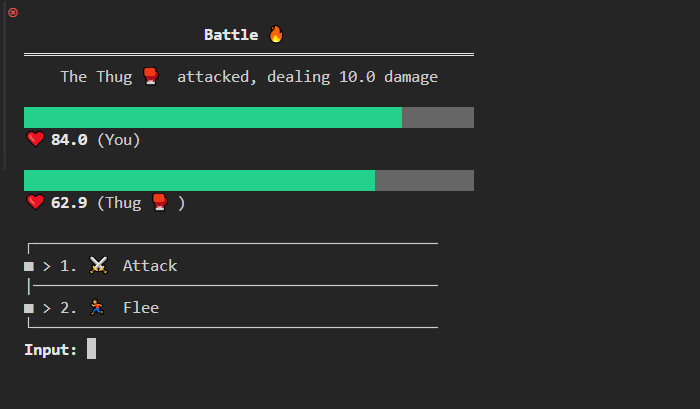
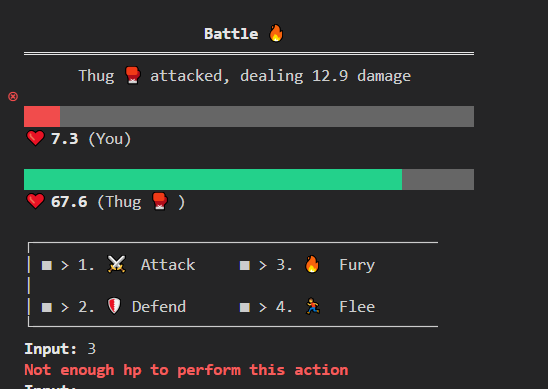
new actions
temporary modifier system.
add defend and fury action in battle.
new temporal perk.
new golem enemy.

diff --git a/internal/game/game.go b/internal/game/game.go
@@ -7,6 +7,7 @@ import (
 	"os"
 	"strconv"
 	"strings"
+	"time"
 
 	"github.com/Noblefel/term-rpg/internal/battle"
 	"github.com/Noblefel/term-rpg/internal/display"
@@ -17,12 +18,14 @@ type Game struct {
 	scanner *bufio.Scanner
 	dis     *display.Display
 	p       *entity.Player
+	bgChan  chan func()
 }
 
 func New(scanner *bufio.Scanner, dis *display.Display) *Game {
 	return &Game{
 		scanner: scanner,
 		dis:     dis,
+		bgChan:  make(chan func()),
 	}
 }
 
@@ -31,6 +34,15 @@ func (g *Game) Start() {
 		perk := g.selectPerks()
 		g.p = entity.NewPlayer(perk)
 	}
+
+	defer close(g.bgChan)
+
+	go func() {
+		for {
+			fn := <-g.bgChan
+			go fn()
+		}
+	}()
 
 	for {
 		g.menu()
@@ -86,15 +98,17 @@ func (g *Game) menu() {
 func (g *Game) selectPerks() int {
 	display.Clear()
 	g.dis.Printf(g.dis.Green, "══════════════════════════════════════════════════")
-	g.dis.Center(g.dis.Green, "Select your perk 🔥")
+	g.dis.Center(g.dis.Green, "Select your perk ✨")
 	g.dis.Printf(g.dis.Green, "══════════════════════════════════════════════════\n")
 
 	fmt.Println("┌─────────────────────────────────────────────")
-	fmt.Println("■ > 1. 💰 Greed (Gain 15% more loot)")
+	fmt.Printf("■ > 1. %s\n", entity.Perks[entity.GREED])
 	fmt.Println("|─────────────────────────────────────────────")
-	fmt.Println("■ > 2. 🛡  Resiliency (+1 Def point and 10% dmg reduction)")
+	fmt.Printf("■ > 2. %s\n", entity.Perks[entity.RESILIENCY])
 	fmt.Println("|─────────────────────────────────────────────")
-	fmt.Println("■ > 3. ⚔   Havoc (+25% Attack, but -15 HP cap)")
+	fmt.Printf("■ > 3. %s\n", entity.Perks[entity.HAVOC])
+	fmt.Println("|─────────────────────────────────────────────")
+	fmt.Printf("■ > 4. %s\n", entity.Perks[entity.TEMPORAL])
 	fmt.Println("└─────────────────────────────────────────────")
 
 	for {
@@ -103,7 +117,7 @@ func (g *Game) selectPerks() int {
 
 		t := g.scanner.Text()
 		switch t {
-		case "1", "2", "3":
+		case "1", "2", "3", "4":
 			perk, _ := strconv.Atoi(t)
 			return perk
 		}
@@ -219,9 +233,9 @@ func (g *Game) battle() {
 
 func (g *Game) playerTurn(b *battle.Battle) {
 	fmt.Println("┌─────────────────────────────────────────────")
-	fmt.Println("■ > 1. ⚔   Attack")
-	fmt.Println("|─────────────────────────────────────────────")
-	fmt.Println("■ > 2. 🏃  Flee ")
+	fmt.Println("| ■ > 1. ⚔   Attack	 ■ > 3. 🔥  Fury")
+	fmt.Println("|")
+	fmt.Println("| ■ > 2. 🛡  Defend	 ■ > 4. 🏃  Flee")
 	fmt.Println("└─────────────────────────────────────────────")
 
 	for {
@@ -241,6 +255,47 @@ func (g *Game) playerTurn(b *battle.Battle) {
 				b.Log = fmt.Sprintf("You attacked, dealing %.1f damage ⚔", att)
 			}
 		case "2":
+			if g.p.IsDefending {
+				g.dis.Printf(g.dis.Red, "Action already in effect\n")
+				continue
+			}
+
+			td := 5 * time.Second
+			if g.p.Perk == entity.TEMPORAL {
+				td += 8 * time.Second
+			}
+
+			g.bgChan <- func() {
+				g.p.IsDefending = true
+				time.Sleep(td)
+				g.p.IsDefending = false
+			}
+
+			b.Status = battle.NEXT
+			b.Log = "You defend yourself, boosting dmg reduction 🛡"
+		case "3":
+			if g.p.Hp <= 10 {
+				g.dis.Printf(g.dis.Red, "Not enough hp to perform this action\n")
+				continue
+			}
+
+			sacrifice := 1 + (g.p.Hp * 0.1) + (rand.Float32() * 4)
+			g.p.Hp -= sacrifice
+
+			td := 5 * time.Second
+			if g.p.Perk == entity.TEMPORAL {
+				td += 8 * time.Second
+			}
+
+			g.bgChan <- func() {
+				g.p.Att += 4
+				time.Sleep(td)
+				g.p.Att -= 4
+			}
+
+			b.Status = battle.NEXT
+			b.Log = fmt.Sprintf("You descent into fury 🔥 (-%.1f hp)", sacrifice)
+		case "4":
 			b.Status = battle.FLED
 			b.Log = "You decided to fight another day 🏃"
 		default:
@@ -255,15 +310,26 @@ func (g *Game) enemyTurn(b *battle.Battle) {
 	g.dis.Center(nil, "■ > Enemy's turn 🔶. Press enter to proceed")
 	g.scanner.Scan()
 
-	att := b.Enemy.Attack()
-	att = g.p.TakeDamage(att)
+	if !b.EnemyAttr.IsDefending && rand.Intn(100) < 10 {
+		g.bgChan <- func() {
+			b.EnemyAttr.IsDefending = true
+			time.Sleep(10 * time.Second)
+			b.EnemyAttr.IsDefending = false
+		}
 
-	if g.p.Hp <= 0 {
-		b.Status = battle.LOSE
-		b.Log = fmt.Sprintf("You've been slained with %.1f damage ⚔  🩸", att)
-	} else {
 		b.Status = battle.NEXT
-		b.Log = fmt.Sprintf("%s  attacked, dealing %.1f damage", b.EnemyAttr.Name, att)
+		b.Log = fmt.Sprintf("%s  bolster their defense 🛡", b.EnemyAttr.Name)
+	} else {
+		att := b.Enemy.Attack()
+		att = g.p.TakeDamage(att)
+
+		if g.p.Hp <= 0 {
+			b.Status = battle.LOSE
+			b.Log = fmt.Sprintf("You've been slained with %.1f damage ⚔  🩸", att)
+		} else {
+			b.Status = battle.NEXT
+			b.Log = fmt.Sprintf("%s attacked, dealing %.1f damage", b.EnemyAttr.Name, att)
+		}
 	}
 }
 

diff --git a/internal/entity/entity_test.go b/internal/entity/entity_test.go
@@ -36,22 +36,24 @@ func TestAttack(t *testing.T) {
 
 func TestTakeDamage(t *testing.T) {
 	tests := []struct {
-		name       string
-		def        float32
-		dmg        float32
-		dmgReduc   float32
-		expectedHp float32
+		name        string
+		def         float32
+		dmg         float32
+		dmgReduc    float32
+		expectedHp  float32
+		isDefending bool
 	}{
-		{"10 damage with 4 def", 4, 10, 0, 94},
-		{"10 damage with 100 def", 100, 10, 0, 100},
-		{"50 damage with 25 def", 25, 50, 0, 75},
-		{"8.8 damage with 1.3 def", 1.3, 8.8, 0, 92.5},
-		{"30 damage with 30% dmg reduction", 0, 30, 0.3, 79},
+		{"10 damage with 4 def", 4, 10, 0, 94, false},
+		{"10 damage with 100 def", 100, 10, 0, 100, false},
+		{"50 damage with 25 def", 25, 50, 0, 75, false},
+		{"8.8 damage with 1.3 def", 1.3, 8.8, 0, 92.5, false},
+		{"30 damage with 30% dmg reduction", 0, 30, 0.3, 79, false},
+		{"10 damage while defending", 0, 10, 0, 92, true},
 	}
 
 	for _, tt := range tests {
 		t.Run(tt.name, func(t *testing.T) {
-			b := Base{Hp: 100, Def: tt.def, DmgReduc: tt.dmgReduc}
+			b := Base{Hp: 100, Def: tt.def, DmgReduc: tt.dmgReduc, IsDefending: tt.isDefending}
 			b.TakeDamage(tt.dmg)
 
 			if b.Hp != tt.expectedHp {

diff --git a/internal/entity/entity.go b/internal/entity/entity.go
@@ -17,14 +17,16 @@ type Entity interface {
 }
 
 type Base struct {
-	Name      string
-	Hp        float32
-	Att       float32
-	Def       float32
-	HpCap     float32
-	DmgReduc  float32
-	DropRate  float32
-	isTesting bool
+	Name     string
+	Hp       float32
+	Att      float32
+	Def      float32
+	HpCap    float32
+	DmgReduc float32
+	DropRate float32
+
+	IsDefending bool
+	isTesting   bool
 }
 
 func (b *Base) Attack() float32 {
@@ -44,13 +46,15 @@ func (b *Base) Attack() float32 {
 }
 
 func (b *Base) TakeDamage(dmg float32) float32 {
-	dmg -= b.Def
+	dmg -= b.Def + (dmg * b.DmgReduc)
+
+	if b.IsDefending {
+		dmg -= dmg * 0.2
+	}
 
 	if dmg <= 0 {
 		return 0
 	}
-
-	dmg -= dmg * b.DmgReduc
 
 	b.Hp -= dmg
 	return dmg

diff --git a/internal/entity/player.go b/internal/entity/player.go
@@ -9,12 +9,14 @@ const (
 	GREED int = iota + 1
 	RESILIENCY
 	HAVOC
+	TEMPORAL
 )
 
 var Perks = map[int]string{
 	GREED:      "💰 Greed (Gain 15% more loot)",
 	RESILIENCY: "🛡  Resiliency (+1 Def point and 10% dmg reduction)",
 	HAVOC:      "⚔   Havoc (+25% Attack, but -15 HP cap)",
+	TEMPORAL:   "⏰  Temporal (+8 seconds to actions bonus modifier)",
 }
 
 type Player struct {
@@ -91,7 +93,7 @@ func (p *Player) Train(n int) string {
 		return fmt.Sprintf("Defense increased by %.1f", n)
 	case 3:
 		p.DmgReduc += 0.01
-		return "Dmg reduction increased by 1%"
+		return "Dmg reduction increased by 1%%"
 	}
 
 	return ""

diff --git a/internal/entity/enemy.go b/internal/entity/enemy.go
@@ -12,6 +12,8 @@ func SpawnRandom() Entity {
 		return newAssasin()
 	case 3:
 		return newSnakes()
+	case 4:
+		return newGolem()
 	}
 
 	return nil
@@ -69,4 +71,25 @@ func newSnakes() Entity {
 		HpCap:    30,
 		DropRate: 0,
 	}}
+}
+
+type golem struct{ Base }
+
+func newGolem() Entity {
+	return &golem{Base{
+		Name:     "Golem 🗿",
+		Hp:       151,
+		Att:      38,
+		Def:      20,
+		HpCap:    151,
+		DropRate: 3.2,
+	}}
+}
+
+func (g *golem) Attack() float32 {
+	if rand.Intn(100) < 30 {
+		return g.Base.Attack()
+	}
+
+	return 0 // assume it missed
 }

diff --git a/internal/entity/enemy_test.go b/internal/entity/enemy_test.go
@@ -15,6 +15,7 @@ func TestNew(t *testing.T) {
 		{"new acolyte", newAcolyte, &acolyte{}},
 		{"new assasin", newAssasin, &assasin{}},
 		{"new snakes", newSnakes, &snakes{}},
+		{"new golem", newGolem, &golem{}},
 	}
 
 	for _, tt := range tests {

diff --git a/README.md b/README.md
@@ -21,20 +21,30 @@ go run main.go
 
 # About the game
 
-### Player's Perk
+### Actions
+| Name | Effect |
+| -------- | ------- |  
+| ⚔ Attack | Deals dmg based on attack attribute + random value |
+| 🛡 Defend | Boost dmg reduction by 20% for 5 seconds (cannot stack) |
+| 🔥 Fury | Sacrifice hp for +4 attack point for 5 seconds (player only) |
+| 🏃 Flee | Escape from the battle (player only) |
+
+### Player Perks
 | Name | Effect |
 | -------- | ------- |  
 | 💰 Greed | Gain 15% more loot |
 | 🛡 Resiliency | +1 defense point and 10% dmg reduction |
 | ⚔ Havoc | +25% Attack, but -15 HP cap|
+| ⏰ Temporal | +8 seconds to actions bonus modifier |
 
 ### Enemies
 | Name | Feat |
 | -------- | ------- |  
-| Thug 🥊 | A good all-rounder with decent attributes |
 | Acolyte 🧙| Has damage reduction |
 | Assassin 🗡| Deals high damage |
-| Snakes 🐍 | Though low hp, they could deal high damage |
+| Golem 🗿  | High defense. 30% chance of dealing massive damage, otherwise 0 (miss) |
+| Snakes 🐍 | Though low hp, they could deal high damage. Drops no loot |
+| Thug 🥊 | A good all-rounder with decent attributes |
 
 ### Other
 - **Rest**: recover (5 + 10% of player's hp cap + 0-8) of hp
